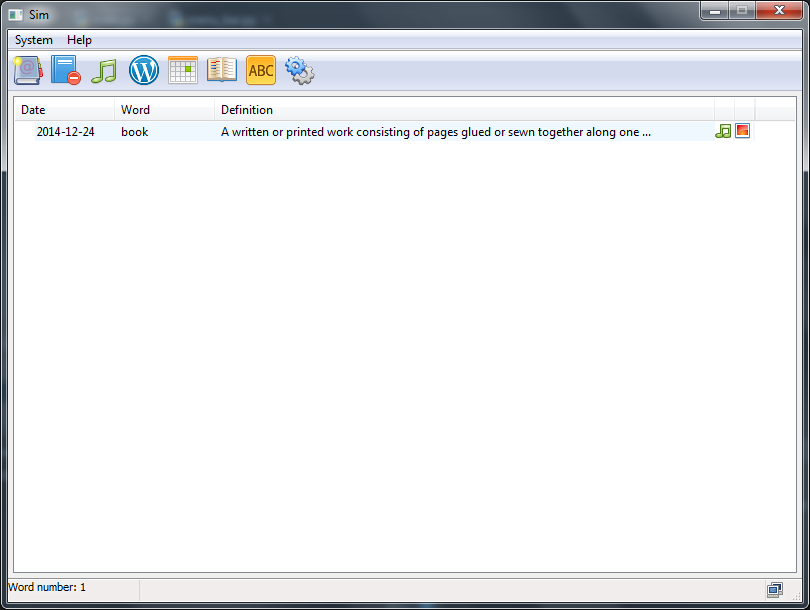
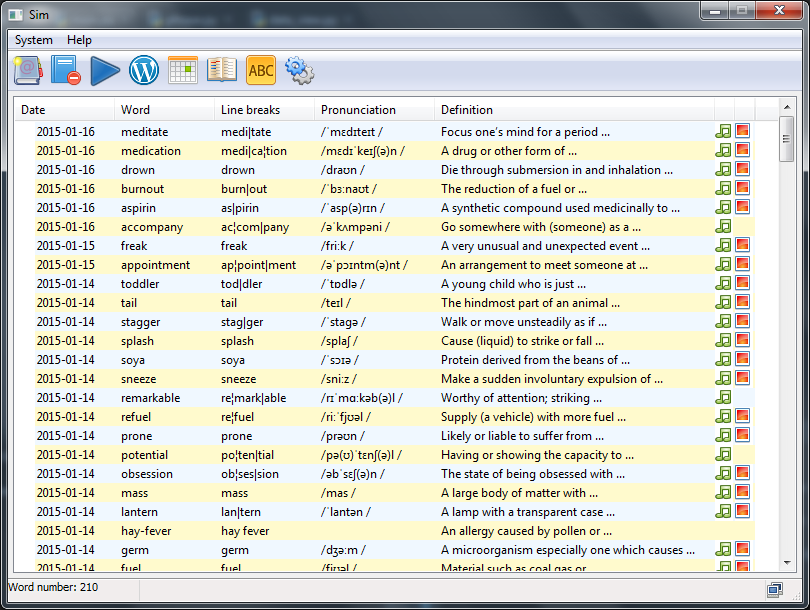
Update version 1.1

diff --git a/help.html b/help.html
@@ -6,7 +6,7 @@
       </TITLE>
    </HEAD>
 <BODY>
-   <H1>User Guide</H1>
+   <H1>User Guide - SIM Version 1.1</H1>
    <a name="top">
 		<P>This document explains how to use the functions in SIM application.</P>
    </a>
@@ -88,6 +88,8 @@
 		<li>Date column: the date of adding this word.</li>
 		<li>Word column: the learned word.</li>
 		<li>Definition column: the first definition of this word.</li>		
+		<li>Line breaks column: word syllables.</li>		
+		<li>Pronunciation column: word pronunciation.</li>		
 		<li><img src="icon/sound.ico"> icon indicates that there is a pronunciation of this word.</li>
 		<li><img src="icon/picture.ico"> icon indicates that there are some description images of this word.</li>
    </ul>
@@ -97,7 +99,7 @@
 		<h2>Word definition</h2>
 		<img src="screenshots/word_definition_screen_windows7.png">
 		<br><br>
-		This dialog is opened by clicking <img src="icon/view_definition.ico"> button on main screen. It displays some description images and all definition of the word. It also allows user to choose another images from google image search results.<a href="#top">Top</a>
+		This dialog is opened by clicking <img src="icon/view_definition.ico"> button on main screen. It displays the pronunciation, some description images and all definitions of the word. It also allows user to choose another images from google image search results.<a href="#top">Top</a>
    </a>
    </p>
 
@@ -142,6 +144,18 @@
 	<tr>
 		<td align="center"><img src="icon/delete.ico" alt="Delete"></td>
 		<td>Delete a selected phrase/topic.</td>
+	</tr>
+	<tr>
+		<td align="center"><img src="icon/add_sound.ico" alt="Add sound"></td>
+		<td>Add phrase/sentence pronunciation.</td>
+	</tr>
+	<tr>
+		<td align="center"><img src="icon/play_pronunciation.ico" alt="Play"></td>
+		<td>Play phrase/sentence pronunciation.</td>
+	</tr>
+	<tr>
+		<td align="center"><img src="icon/playlist.ico" alt="Play list"></td>
+		<td>Play all phrase/sentence pronunciations at random.</td>
 	</tr>
 	<tr>
 		<td align="center"><img src="icon/content.ico" alt="Content"></td>

diff --git a/gui/menu_bar.py b/gui/menu_bar.py
@@ -100,19 +100,28 @@ class MenuBar(object):
         info = wx.AboutDialogInfo()
         info.SetIcon(wx.Icon('icon/logo.png', wx.BITMAP_TYPE_PNG))
         info.SetName('Sim')
-        info.SetVersion('1.0')
+        info.SetVersion('1.1')
         sim_description = """
-        Sim is an cross-platform application (support for Windows and Linux) helping users learn vocabulary and manage
-        their english-french learning period. The new words are imported automatically from google search (to get
-        pronunciation and images) and website: http://www.oxforddictionaries.com (to get word definition). It's
-        developed in python 2.7 using some modules such as pygame, pydub (for sound), wxPython (version 2.8x
-        recommended) (for GUI), ffmpeg (dependency) ... The free set of icons is found in: http://www.fatcow.com/ """
+        An cross-platform application (support for Windows and Linux) help users learn vocabulary and manage
+        their foreign languages (english and french) learning period. Some information of a new entered words are
+        imported automatically from:
+        + google search (to get word pronunciation and description images)
+        + website: http://www.oxforddictionaries.com (to get word definition, pronunciation and line breaks)
+        Users can track their learning period with a word number line chart. For testing the memory, this application
+        provides a test functionality by listening some words then writing the answers. Moreover, it allow to take
+        note about learnt phrases/sentences in both languages with (if any)their pronunciation
+
+        SIM is developed in python 2.7 with some modules such as pygame, pydub (for sound), wxPython (version 2.8x
+        recommended) (for GUI), ffmpeg (dependency) ...
+
+        For the icons set, please find out more in: http://www.fatcow.com/
+        Besides, some Yahoo Messenger 6.0 sounds are used for the closing and opening form or clicking button events."""
         sim_license = """
         Sim is free software; you can redistribute it and/or modify it under the terms of the GNU
         General Public License as published by the Free Software Foundation;
         either version 2 of the License, or (at your option) any later version. """
         info.SetDescription(sim_description)
-        info.SetCopyright('(C) 2014 Pham Van Trung')
+        info.SetCopyright('(C) 2015 Pham Van Trung')
         info.SetWebSite('http://vn.linkedin.com/in/trungpv88')
         info.AddDeveloper('trungpv88@gmail.com')
         info.SetLicence(sim_license)

diff --git a/README.md b/README.md
@@ -1,9 +1,17 @@
 SIM application
 ===
 
-An cross-platform application (support for Windows and Linux) help user learn vocabulary and manage
-their english-french learning period. The new words are imported automatically from google search 
-(to get word pronunciation and images) and website: http://www.oxforddictionaries.com (to get word definition). 
+An cross-platform application (support for Windows and Linux) help users learn vocabulary and manage
+their foreign languages (english and french) learning period. Some information of a new entered words are 
+imported automatically from:
++ google search (to get word pronunciation and description images) 
++ website: http://www.oxforddictionaries.com (to get word definition, pronunciation and line breaks)
+Users can track their learning period with a word number line chart. For testing the memory, this application 
+provides a test functionality by listening some words then writing the answers. Moreover, it allow to take 
+note about learnt phrases/sentences in both languages with (if any)their pronunciation
 
-It's developed in python 2.7 with some modules such as pygame, pydub (for sound), wxPython (version 2.8x 
-recommended) (for GUI), ffmpeg (dependency) ... The free set of icons is found in: http://www.fatcow.com/
+SIM is developed in python 2.7 with some modules such as pygame, pydub (for sound), wxPython (version 2.8x 
+recommended) (for GUI), ffmpeg (dependency) ... 
+
+For the icons set, please find out more in: http://www.fatcow.com/
+Besides, some Yahoo Messenger 6.0 sounds are used for the closing and opening form or clicking button events.
